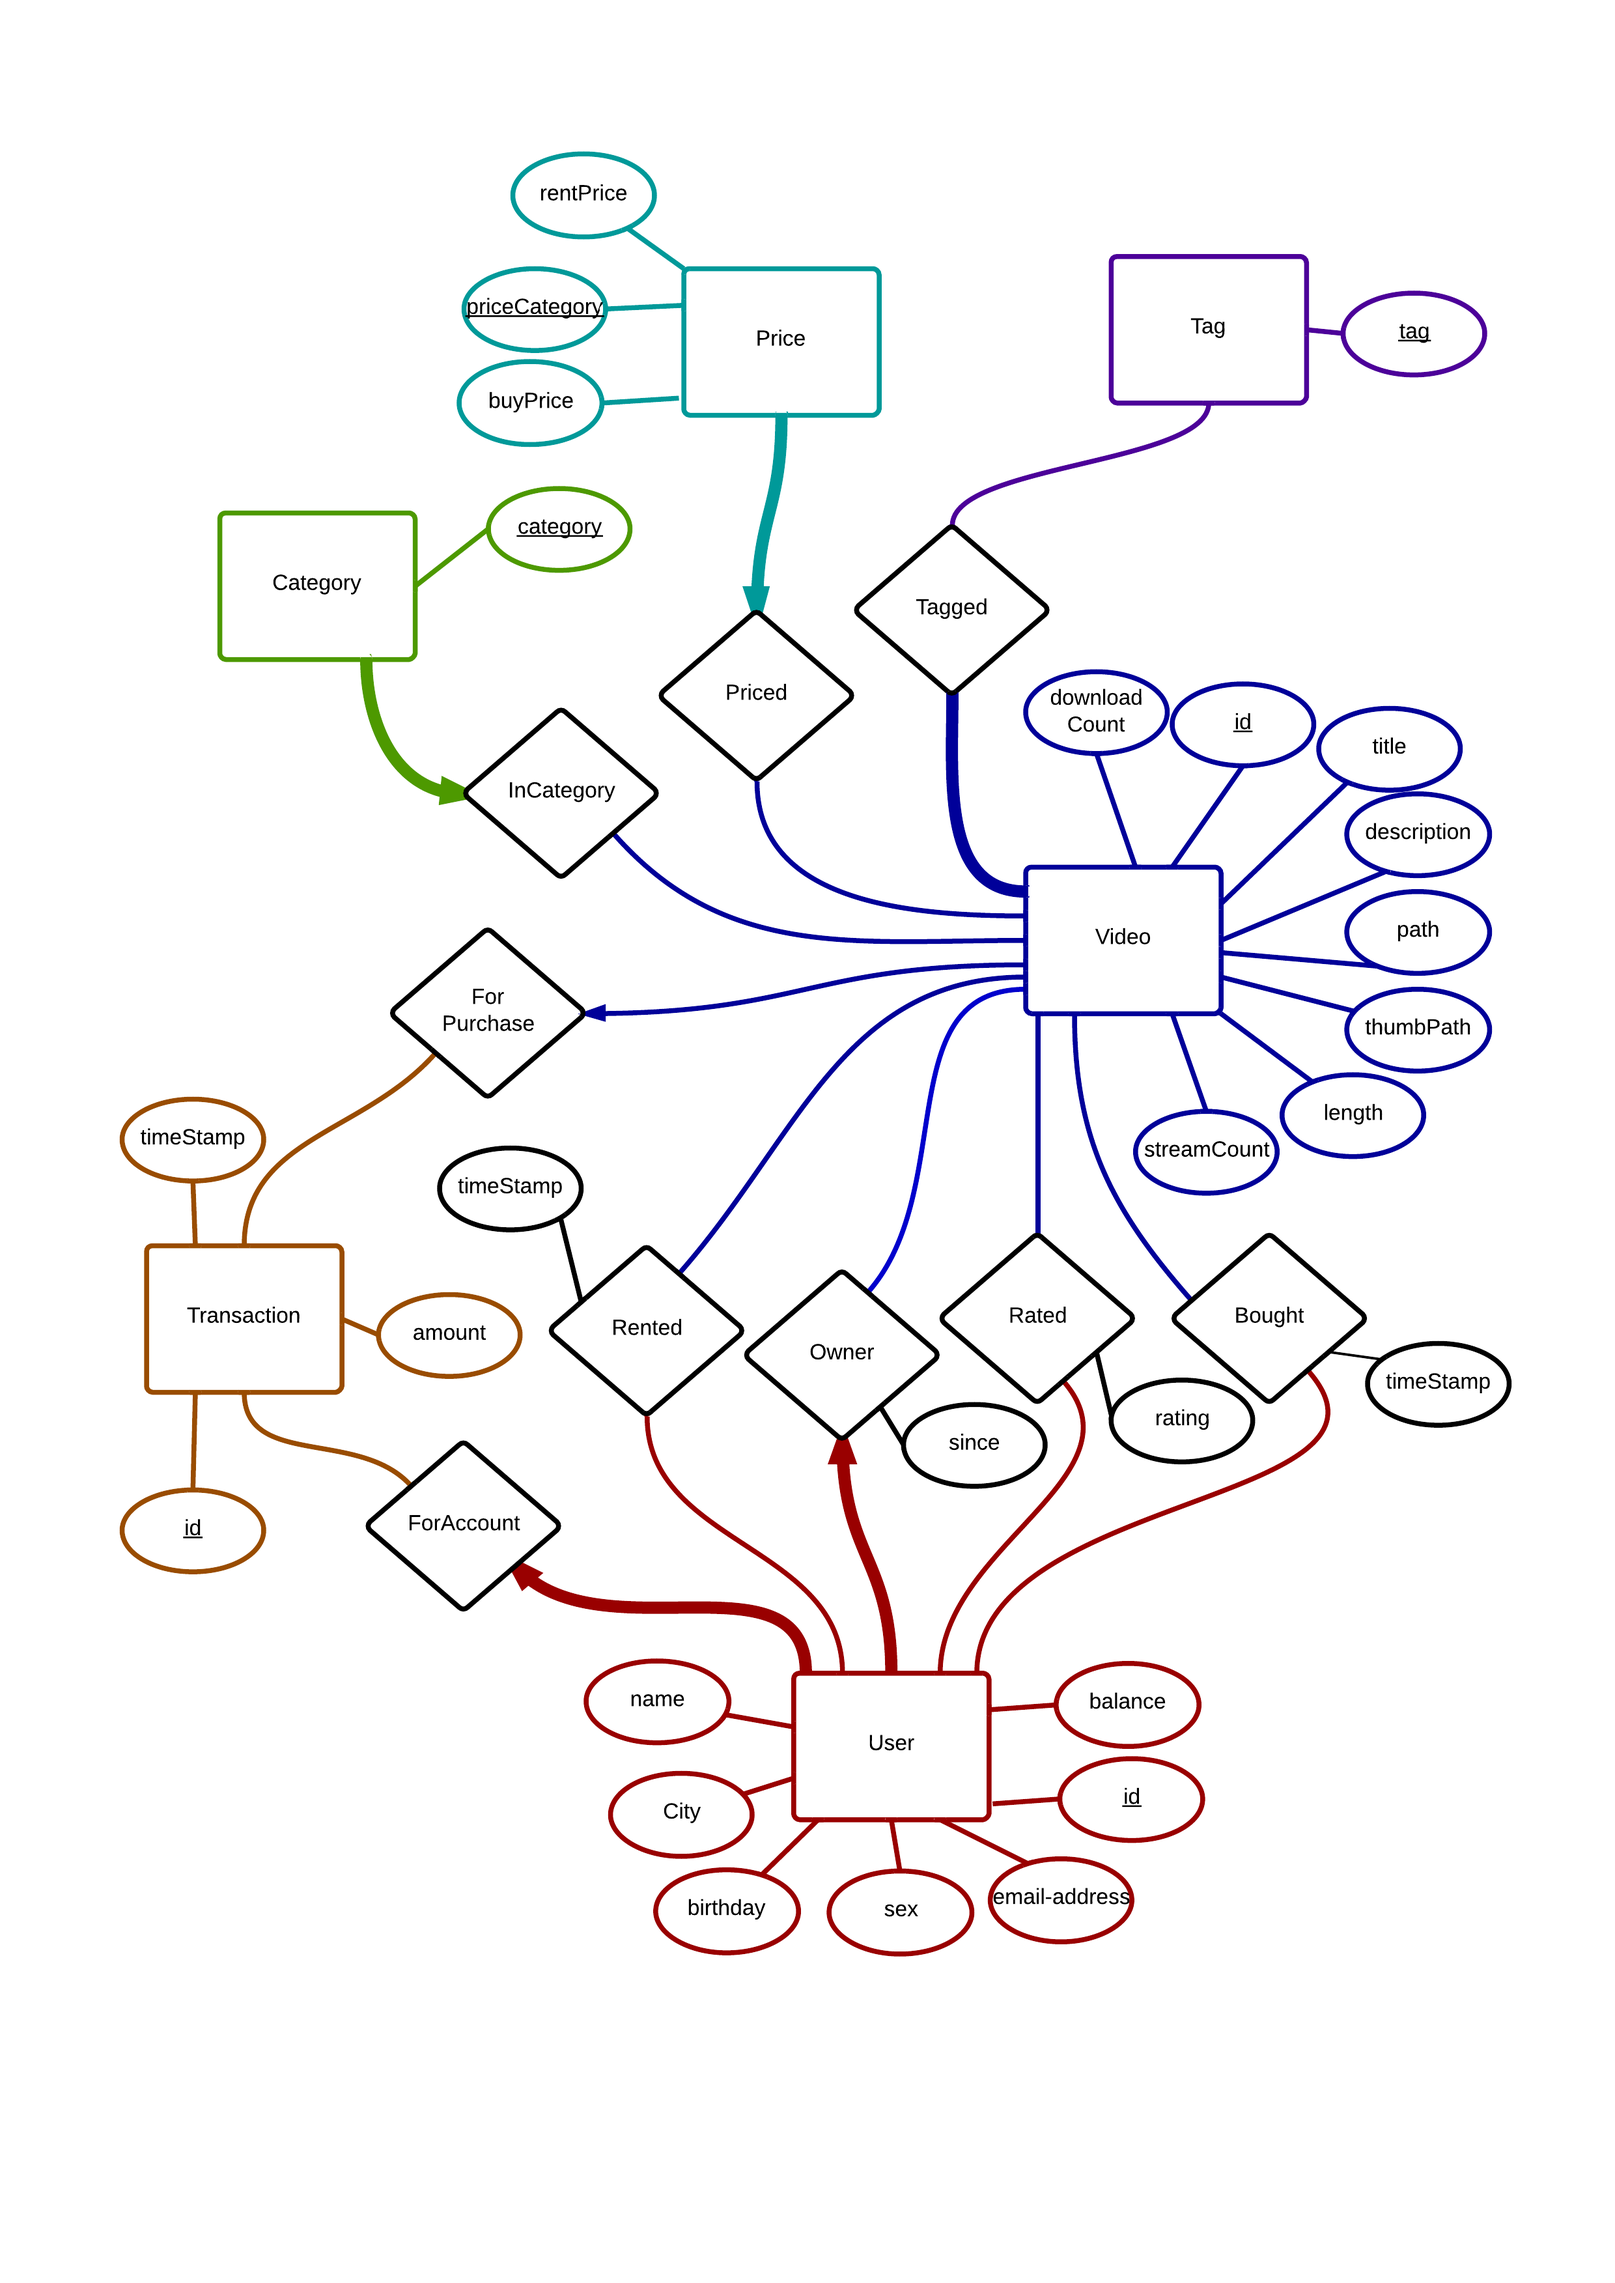
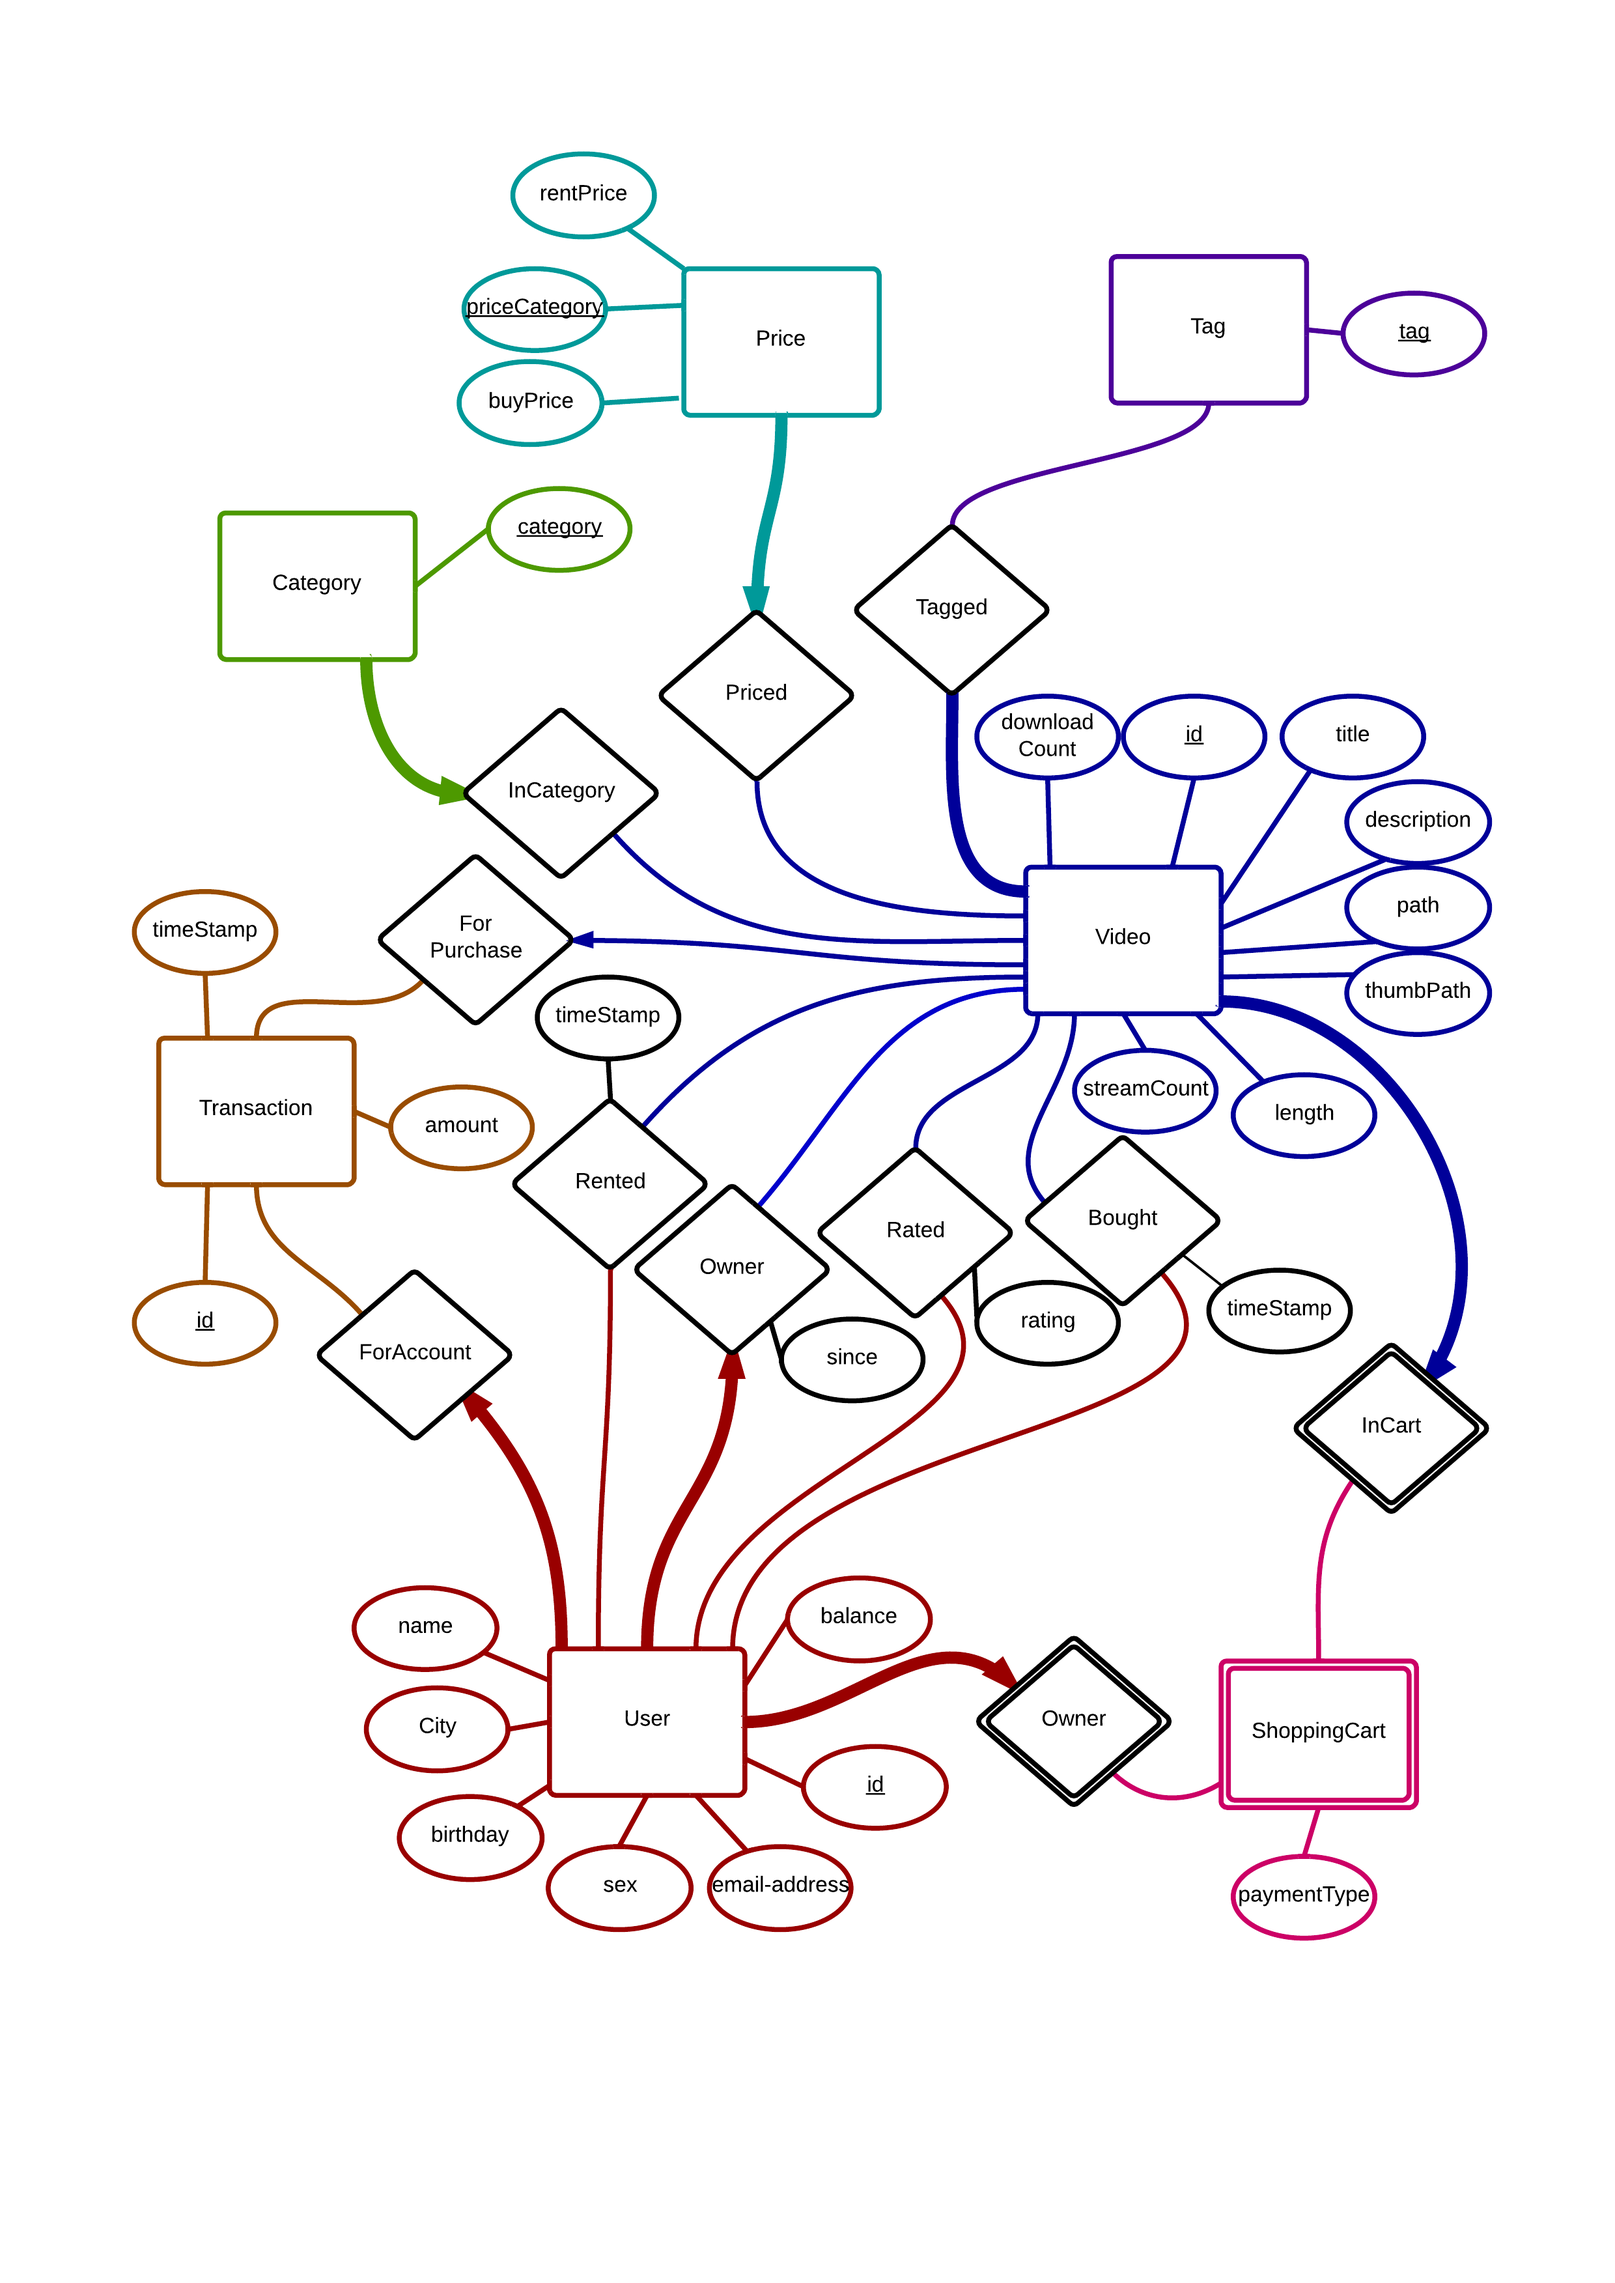
continued work on analysis

Changed region(s): [[0.0621, 0.2799, 0.9315, 0.8708], [0.0621, 0.6531, 0.0931, 0.6842]]

diff --git a/analysis.tex b/analysis.tex
@@ -107,28 +107,41 @@ These factors were consensually understood as the most crucial and/or interestin
 
 \section{Data Modelling}
 Another major part of our problem analysis was devising a model of the data, partly in order to construct and refine a database design for persisting the necessary data, and in part to serve for inspiration for C\# classes.
-This modelling was done using two artefacts, a domain to serve as a visual dictionary for objects and concepts in the problem domain, and an ER-diagram as an aid for reflecting on a useful database design. The main inspiration for these models were the use cases and the business model. These two artefacts serve the basis for discussions in this section.
+This modelling was done using two artefacts, a domain model to serve as a visual dictionary for objects and concepts in the problem domain, and an ER-diagram as an aid for reflecting on a useful database design. These two artefacts serve the basis for discussions in this section.
 \subsection{Domain Model}
 Something about the domain model
 %The domain model was used to facilitate and document the results of a %discussion of the problem domain. By modelling the objects and concepts in the %problem domain, the project group came upon a number of questions, such as:
 %\begin{itemize}
 %\item 	
 %\end{itemize}
-%\begin{center}
-%\includegraphics[scale=0.15]{DomainModel.png}
-%\end{center}
+\begin{center}
+\includegraphics[scale=0.15]{DomainModel.png}
+\end{center}
 
 \subsection{ER-Diagram}
-The ER diagram reflects our considerations on which data should be captured and persisted by the system. 
+The ER diagram on the following page reflects our considerations on which data should be captured and persisted by the system. The video and user entities constitute the bare minimum of required data to implement the core functionality of video streaming and user management, and the remaining entities capture the data needed to record either deposits and payments, or the data needed to perform statistical analysis for e.g making recommendations to individual users.
 \begin{center}
 \includegraphics[scale=0.15]{ERDiagram.png}
 \end{center}
+The transaction, rented and bought tables together capture the financial activities of the users, in that transactions capture deposits, or payments by users for videos, and rented and bought capture the respective purchase histories of users. 
+We later realised that this design is a flawed, as it allows for inconsistency between recorded purchases and financial transactions. A better design would have been to record a transaction with each rent- or buy history, and discard recording videos associated with a financial transaction directly in the transaction table.
+
+Another noteworthy detail is the relationship between the price entity and the video entity. The reason to keep prices enumerated by category in a separate table, as opposed to recording it directly in the video table, is the business model requirement of allowing for user generated content. Defining a set of price categories that uploaders could choose from simplifies the upload process, as well as maintaining consistent pricing for different videos.
+
+The shoppingcart entity was added to accommodate a wish from the SMU group of working with shopping cart functionality. Originally, the intent was for users to simply pay directly for each video separately when viewing it, either by renting or buying it. However, it was implemented since the SMU group was quite keen on the functionality, and it was very easily added to our existing model.
 
 \section{Architectural Analysis}
 In this section we will outline our efforts towards translating the functional and non functional requirements into a large scale organization of system namespaces, that is to say the logical architecture of the system. This is modelled using an UML package diagram, which will serve as the basis for the discussion.
 \subsection{Package Diagram}
-The package diagram below reflects bla bla bla
+The package diagram below reflects the responsibilities identified by developing the use cases, and in part the non-functional requirements of the factor table. For example, the need for 
 \begin{center}
 \includegraphics[scale=0.15]{PackageDiagram.png}
 \end{center}
+\subsection{Technology Considerations}
+REST VS SOAP\\
+HTML5 vs Silverlight\\
+Facebook Login vs WCF login\\
+PayPal\\
+Ads\\
+Preventing unauthorized downloading\\
 \section{Project Management Plan}

diff --git a/testmain.tex b/testmain.tex
@@ -11,4 +11,5 @@
 \newpage
 \include{Introduction}
 \include{analysis}
+\include{design}
 \end{document}

diff --git a/design.tex b/design.tex
@@ -1,0 +1,1 @@
+\part{Design}
